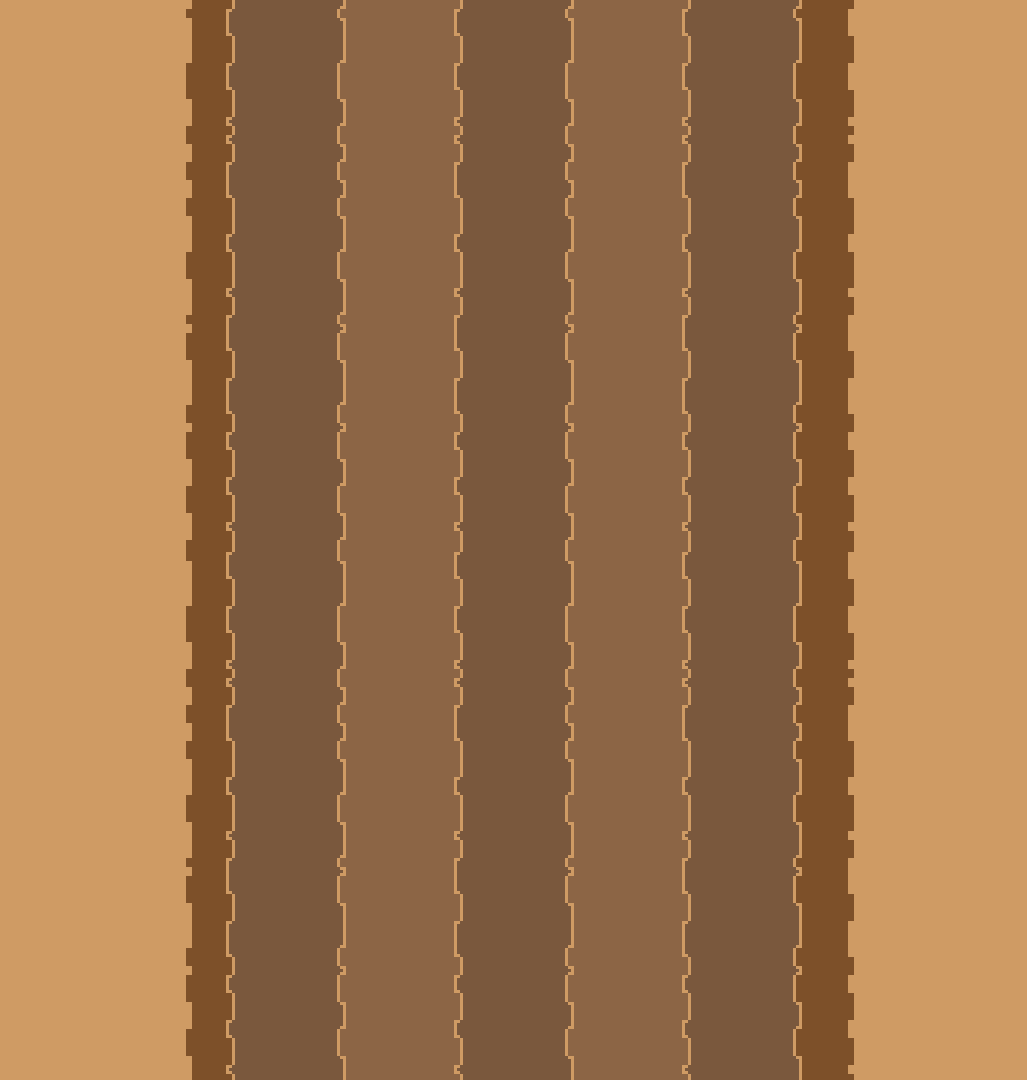
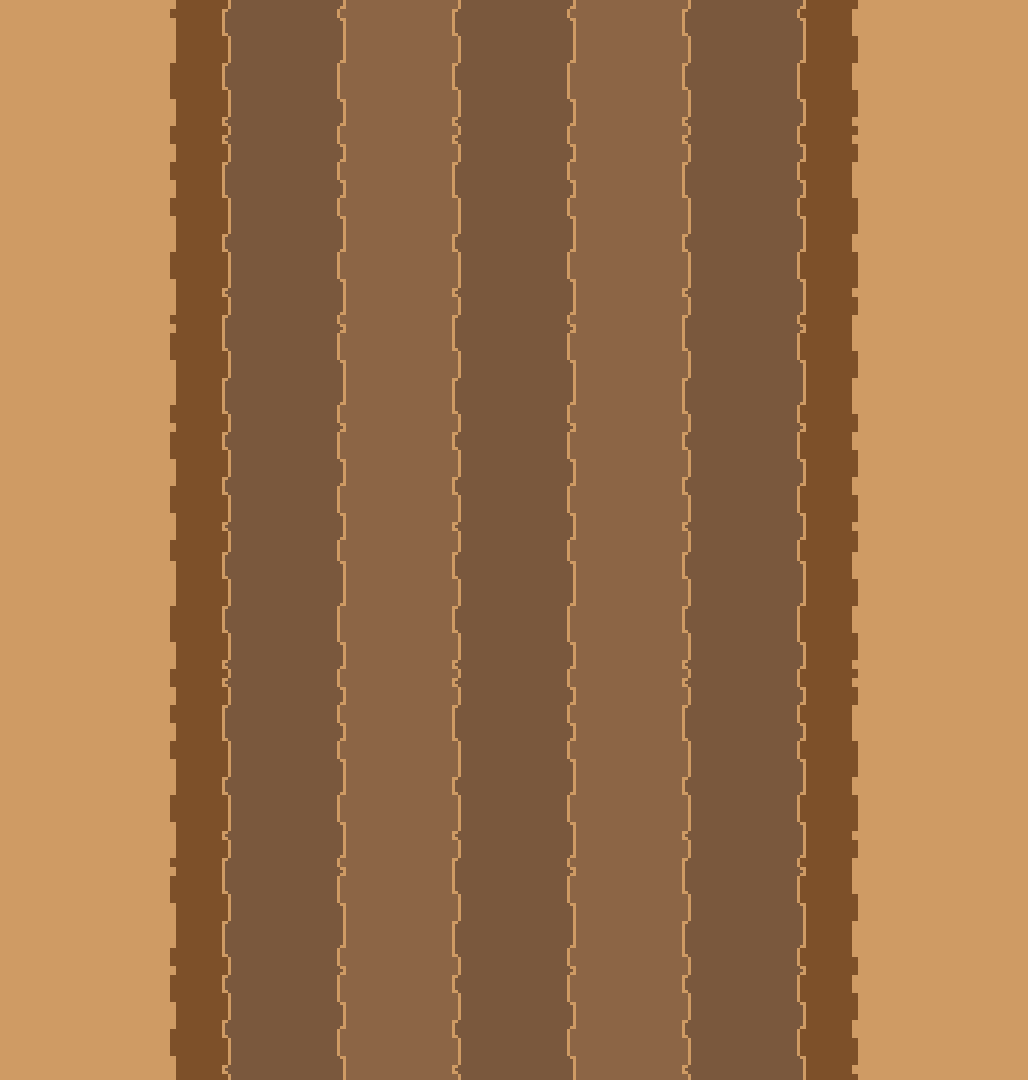
fondo nuevo ajustado

diff --git a/src/game/utils/crearFondoTriple.js b/src/game/utils/crearFondoTriple.js
@@ -1,0 +1,99 @@
+export function crearFondoTriple(scene, config = {}) {
+  const {
+    // posición y tamaño base
+    xCalle = scene.scale.width / 2,
+    anchoCalle = 1028,
+    velocidad = 10,
+    profundidad = 0, // valor base común
+
+    // profundidad por capa (opcional)
+    profundidadVeredaIzq = -1,
+    profundidadCalle = -10,
+    profundidadVeredaDer = -1,
+
+    // veredas: ancho, desplazamientos y posiciones opcionales
+    anchoVeredaIzq = 538,
+    anchoVeredaDer = 541,
+    offsetVeredaIzqX = 0,
+    offsetVeredaDerX = 0,
+    posVeredaIzqX = -250,
+    posVeredaDerX = 1360,
+
+    // escalas
+    escalaVeredaIzq = 1.5,
+    escalaVeredaDer = 1.5,
+    escalaCalle = (1, 1.1)
+  } = config;
+
+  const alto = scene.scale.height;
+
+  // === Vereda izquierda ===
+  const veredaIzq = scene.add.tileSprite(
+    posVeredaIzqX !== null
+      ? posVeredaIzqX
+      : xCalle - anchoCalle / 2 - anchoVeredaIzq + offsetVeredaIzqX,
+    0,
+    anchoVeredaIzq,
+    alto,
+    'veredaIzq'
+  )
+    .setOrigin(0)
+    .setScrollFactor(0)
+    .setDepth(profundidadVeredaIzq ?? profundidad) // 👈 profundidad individual o global
+    .setScale(escalaVeredaIzq);
+
+  // === Calle ===
+  const calle = scene.add.tileSprite(
+    xCalle - anchoCalle / 2,
+    0,
+    anchoCalle,
+    alto,
+    'calle'
+  )
+    .setOrigin(0)
+    .setScrollFactor(0)
+    .setDepth(profundidadCalle ?? profundidad)
+    .setScale(escalaCalle);
+
+  // === Vereda derecha ===
+  const veredaDer = scene.add.tileSprite(
+    posVeredaDerX !== null
+      ? posVeredaDerX
+      : xCalle + anchoCalle / 2 + offsetVeredaDerX,
+    0,
+    anchoVeredaDer,
+    alto,
+    'veredaDer'
+  )
+    .setOrigin(0)
+    .setScrollFactor(0)
+    .setDepth(profundidadVeredaDer ?? profundidad)
+    .setScale(escalaVeredaDer);
+
+  // === Control ===
+  return {
+    veredaIzq,
+    calle,
+    veredaDer,
+    velocidad,
+    update() {
+      this.veredaIzq.tilePositionY -= this.velocidad / escalaVeredaIzq;
+      this.calle.tilePositionY -= this.velocidad / escalaCalle;
+      this.veredaDer.tilePositionY -= this.velocidad / escalaVeredaDer;
+    },
+    setVelocidad(v) {
+      this.velocidad = v;
+    },
+    moverCalle(x) {
+      this.calle.x = x - anchoCalle / 2;
+      this.veredaIzq.x =
+        (posVeredaIzqX !== null
+          ? posVeredaIzqX
+          : x - anchoCalle / 2 - anchoVeredaIzq + offsetVeredaIzqX);
+      this.veredaDer.x =
+        (posVeredaDerX !== null
+          ? posVeredaDerX
+          : x + anchoCalle / 2 + offsetVeredaDerX);
+    }
+  };
+}

diff --git a/src/game/scenes/GameVersus.js b/src/game/scenes/GameVersus.js
@@ -3,6 +3,8 @@ import InputSystem, { INPUT_ACTIONS } from '../systems/InputSystem.js';
 import PlayerBike from '../clases/PlayerBike.js';
 import PlayerCamionVersus from '../clases/PlayerCamionVersus.js';
 import { Caja, Tomate, Banana, PickupGomera } from '../clases/obstaculos.js';
+import { crearFondoTriple } from '../utils/crearFondoTriple.js';
+
 
 
 // ==========================
@@ -45,7 +47,13 @@ actualizarBarraVidaCamion(vidas, vidasMax) {
 
   create() {
     // Fondo
-    this.fondoCiudad = this.add.tileSprite(0, 0, 2048, 1536, 'ciudad').setOrigin(0, 0);
+    //his.fondoCiudad = this.add.tileSprite(0, 0, 2048, 1536, 'ciudad').setOrigin(0, 0);
+       this.fondo = crearFondoTriple(this, {
+      xCalle: this.scale.width / 2 -50, // mover la calle fácilmente
+      anchoCalle: 1028,
+      velocidad: 8
+    });
+
 
           this.anims.create({
   key: 'pedalear',
@@ -106,13 +114,13 @@ actualizarBarraVidaCamion(vidas, vidasMax) {
       this.lanes.push(offsetX + marginX + laneWidth / 2 + i * laneWidth);
     }
 
-      // líneas divisorias
+      /* líneas divisorias
   for (let i = 1; i < laneCount; i++) {
     const lineX = offsetX + marginX + i * laneWidth;
     this.add.rectangle(lineX, offsetY + gameHeight / 2, 2, gameHeight, 0x000000).setOrigin(0.5);
-  }
+  } */
 
-  // fondo de la calle
+  /* fondo de la calle
   this.add.rectangle(
     offsetX + gameWidth / 2,
     offsetY + gameHeight / 2,
@@ -120,7 +128,7 @@ actualizarBarraVidaCamion(vidas, vidasMax) {
     gameHeight,
     0x444444,
     0.3
-  ).setDepth(-1);
+  ).setDepth(-1); */
 
 
 
@@ -234,7 +242,8 @@ const textoP2 = this.add.text(baseX2 - 80, baseY2 + 140,
     if (this.player1) this.player1.update();         // Jugador 1: bici
     if (this.player2) this.player2.update();         // Jugador 2: camión
 
-    this.fondoCiudad.tilePositionY -= 10;
+    //this.fondoCiudad.tilePositionY -= 10;
+  this.fondo.update();
 
 
     this.camionLane = this.player2.currentLane;

diff --git a/src/game/scenes/Game(cooperativo).js b/src/game/scenes/Game(cooperativo).js
@@ -3,6 +3,8 @@ import InputSystem, { INPUT_ACTIONS } from '../systems/InputSystem.js';
 import StateMachine from '../clases/StateMachine.js';
 import { Caja, Tomate, Banana, PickupGomera } from '../clases/obstaculos.js';
 import PlayerBike from '../clases/PlayerBike.js';
+import { crearFondoTriple } from '../utils/crearFondoTriple.js';
+
 
 // ESCENA PRINCIPAL
 export class Game extends Scene {
@@ -59,7 +61,12 @@ actualizarBarraVidaCamion(vidas, vidasMax) {
     // --- CONDICION DE GAME OVER ---
     this.gameOver = false;
 
-    this.fondoCiudad = this.add.tileSprite(0, 0, 2048, 1536, 'ciudad').setOrigin(0, 0);
+    //this.fondoCiudad = this.add.tileSprite(0, 0, 2048, 1536, 'ciudad').setOrigin(0, 0);
+       this.fondo = crearFondoTriple(this, {
+      xCalle: this.scale.width / 2 -50, // mover la calle fácilmente
+      anchoCalle: 1028,
+      velocidad: 8
+    });
 
 
     // --- PUNTUACION ---
@@ -138,7 +145,7 @@ this.cameras.main.setBackgroundColor(0x00ff00);
     this.lanes.push(offsetX + marginX + laneWidth / 2 + i * laneWidth);
   }
 
-  // líneas divisorias
+  /* líneas divisorias
   for (let i = 1; i < laneCount; i++) {
     const lineX = offsetX + marginX + i * laneWidth;
     this.add.rectangle(lineX, offsetY + gameHeight / 2, 2, gameHeight, 0x000000).setOrigin(0.5);
@@ -152,7 +159,7 @@ this.cameras.main.setBackgroundColor(0x00ff00);
     gameHeight,
     0x444444,
     0.3
-  ).setDepth(-1);
+  ).setDepth(-1); */
 
   // PLAYER
   this.player = new PlayerBike(this, this.lanes[2], offsetY + 700, this.lanes);
@@ -531,8 +538,9 @@ exit: () => { this.patron = null; }
     //this.inputSystem.update(); // refresca InputSystem
     this.player.update();
     this.camionFSM.step();
+  this.fondo.update();
 
-    this.fondoCiudad.tilePositionY -= 10;
+    //this.fondoCiudad.tilePositionY -= 10;
 
   }
 

diff --git a/src/game/scenes/MainMenu.js b/src/game/scenes/MainMenu.js
@@ -1,6 +1,7 @@
 // MainMenu.js
 import { Scene } from 'phaser';
 import InputSystem, { INPUT_ACTIONS } from '../systems/InputSystem.js';
+import { crearFondoTriple } from '../utils/crearFondoTriple.js';
 
 export class MainMenu extends Scene {
   constructor() {
@@ -9,10 +10,15 @@ export class MainMenu extends Scene {
 
   create() {
     // === Fondo ===
-    this.fondoCiudad = this.add
+    /*this.fondoCiudad = this.add
       .tileSprite(0, 0, 2048, 1080, 'ciudad')
       .setOrigin(0)
-      .setScrollFactor(0);
+      .setScrollFactor(0); */
+       this.fondo = crearFondoTriple(this, {
+      xCalle: this.scale.width / 2 -50, // mover la calle fácilmente
+      anchoCalle: 1028,
+      velocidad: 8
+    });
 
     this.add.image(960, 250, 'logo').setOrigin(0.5).setScale(0.7);
 
@@ -284,7 +290,9 @@ export class MainMenu extends Scene {
   }
 
   update() {
-    if (this.fondoCiudad) this.fondoCiudad.tilePositionY -= 10;
+    //if (this.fondoCiudad) this.fondoCiudad.tilePositionY -= 10;
+  this.fondo.update();
+
     const input = this.inputSystem;
     if (!input) return;
 
